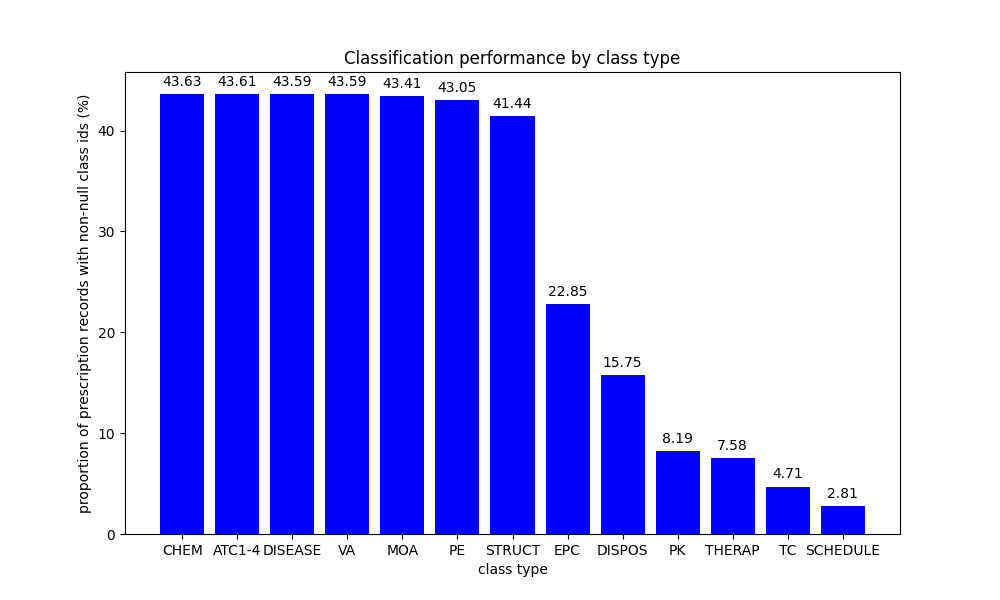
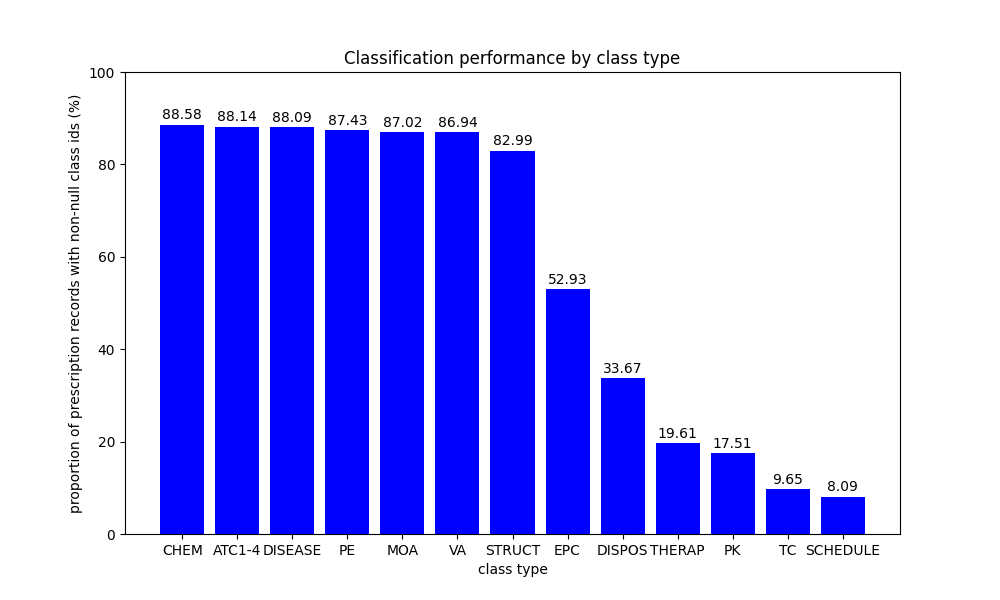
Fixed lookup result merging issues

diff --git a/curation/prescriptions/generate_df_prescriptions.py b/curation/prescriptions/generate_df_prescriptions.py
@@ -25,8 +25,10 @@ def generate_df_prescriptions(engine: sqlalchemy.Engine) -> pd.DataFrame:
     unidentified_prescription_count += (("NDC", len(df_unidentified_prescriptions)),)
 
     # Looking up GSNs and merging found RxCUIs in.
-    df_gsn_lookup = generate_gsn_lookup(s_gsn=df_prescriptions['gsn'])
-    df_prescriptions = pd.merge(left=df_prescriptions, right=df_gsn_lookup, how='outer', on=['gsn', 'rxcui'])
+    df_gsn_lookup = generate_gsn_lookup(s_gsn=df_unidentified_prescriptions['gsn'])
+    df_prescriptions = pd.merge(left=df_prescriptions, right=df_gsn_lookup, how='left', on=['gsn'])
+    df_prescriptions['rxcui'] = df_prescriptions['rxcui_x'].fillna(df_prescriptions['rxcui_y'])
+    df_prescriptions.drop(columns=['rxcui_x', 'rxcui_y'], inplace=True)
 
     # Counting unidentified prescriptions after GSN lookup.
     df_unidentified_prescriptions = df_prescriptions[df_prescriptions['rxcui'].isna()]
@@ -35,7 +37,9 @@ def generate_df_prescriptions(engine: sqlalchemy.Engine) -> pd.DataFrame:
     # Looking up drug names and merging found RxCUIs in.
     df_name_lookup = generate_name_lookup(df_unidentified_prescriptions[ColumnKey.DRUG.value],
                                           column_key=ColumnKey.DRUG)
-    df_prescriptions = pd.merge(left=df_prescriptions, right=df_name_lookup, how='outer', on=['drug', 'rxcui'])
+    df_prescriptions = pd.merge(left=df_prescriptions, right=df_name_lookup, how='left', on=['drug'])
+    df_prescriptions['rxcui'] = df_prescriptions['rxcui_x'].fillna(df_prescriptions['rxcui_y'])
+    df_prescriptions.drop(columns=['rxcui_x', 'rxcui_y'], inplace=True)
 
     # Counting unidentified prescriptions after drug name lookup.
     df_unidentified_prescriptions = df_prescriptions[df_prescriptions['rxcui'].isna()]
@@ -44,8 +48,10 @@ def generate_df_prescriptions(engine: sqlalchemy.Engine) -> pd.DataFrame:
     # Looking up generic drug names and merging found class names in.
     df_generic_name_lookup = generate_name_lookup(df_unidentified_prescriptions[ColumnKey.DRUG_NAME_GENERIC.value],
                                                   column_key=ColumnKey.DRUG_NAME_GENERIC)
-    df_prescriptions = pd.merge(left=df_prescriptions, right=df_generic_name_lookup, how='outer',
-                                on=[ColumnKey.DRUG_NAME_GENERIC.value, 'rxcui'])
+    df_prescriptions = pd.merge(left=df_prescriptions, right=df_generic_name_lookup, how='left',
+                                on=[ColumnKey.DRUG_NAME_GENERIC.value])
+    df_prescriptions['rxcui'] = df_prescriptions['rxcui_x'].fillna(df_prescriptions['rxcui_y'])
+    df_prescriptions.drop(columns=['rxcui_x', 'rxcui_y'], inplace=True)
 
     # Counting unidentified prescriptions after drug name lookup.
     df_unidentified_prescriptions = df_prescriptions[df_prescriptions['rxcui'].isna()]

diff --git a/curation/prescriptions/lookup/identify_drug_using_approximate_match.py b/curation/prescriptions/lookup/identify_drug_using_approximate_match.py
@@ -3,9 +3,9 @@ from curation.prescriptions.get_approximate_match import GetApproximateMatchResp
 
 
 def identify_drug_using_approximate_match(row, column_key: ColumnKey):
-    drug_raw_value: str = row[column_key.value]
+    drug_raw_value: str = row[column_key.value].strip()
 
-    if drug_raw_value is None:
+    if drug_raw_value is None or drug_raw_value == '':
         return row
 
     get_approximate_match_response: GetApproximateMatchResponse = get_approximate_match(term=drug_raw_value)

diff --git a/curation/prescriptions/lookup/classify_drug.py b/curation/prescriptions/lookup/classify_drug.py
@@ -16,7 +16,7 @@ def classify_drug(row):
 
     # Get the drug classes for the RxCUI using RxClass.
     get_class_by_rxcui_response: GetClassByRxCUIResponse = get_class_by_rxcui(rxcui=rxcui)
-
+    
     # Extract the drug classes from the response and add them to the row.
     for element in get_class_by_rxcui_response.rxclass_drug_info_list.rxclass_drug_info:
         row[f"rxclass_{element.rxclass_min_concept_item.class_type}_id"] = element.rxclass_min_concept_item.class_id

diff --git a/curation/prescriptions/plot_classification_performance.py b/curation/prescriptions/plot_classification_performance.py
@@ -37,6 +37,8 @@ def plot_classification_performance(df_prescriptions: pd.DataFrame):
     plt.ylabel('proportion of prescription records with non-null class ids (%)')
     plt.title('Classification performance by class type')
 
+    plt.ylim(0, 100)
+
     for bar in bars:
         yval = bar.get_height()
         plt.text(bar.get_x() + bar.get_width() / 2, yval + 0.5, round(yval, 2), ha='center', va='bottom')
